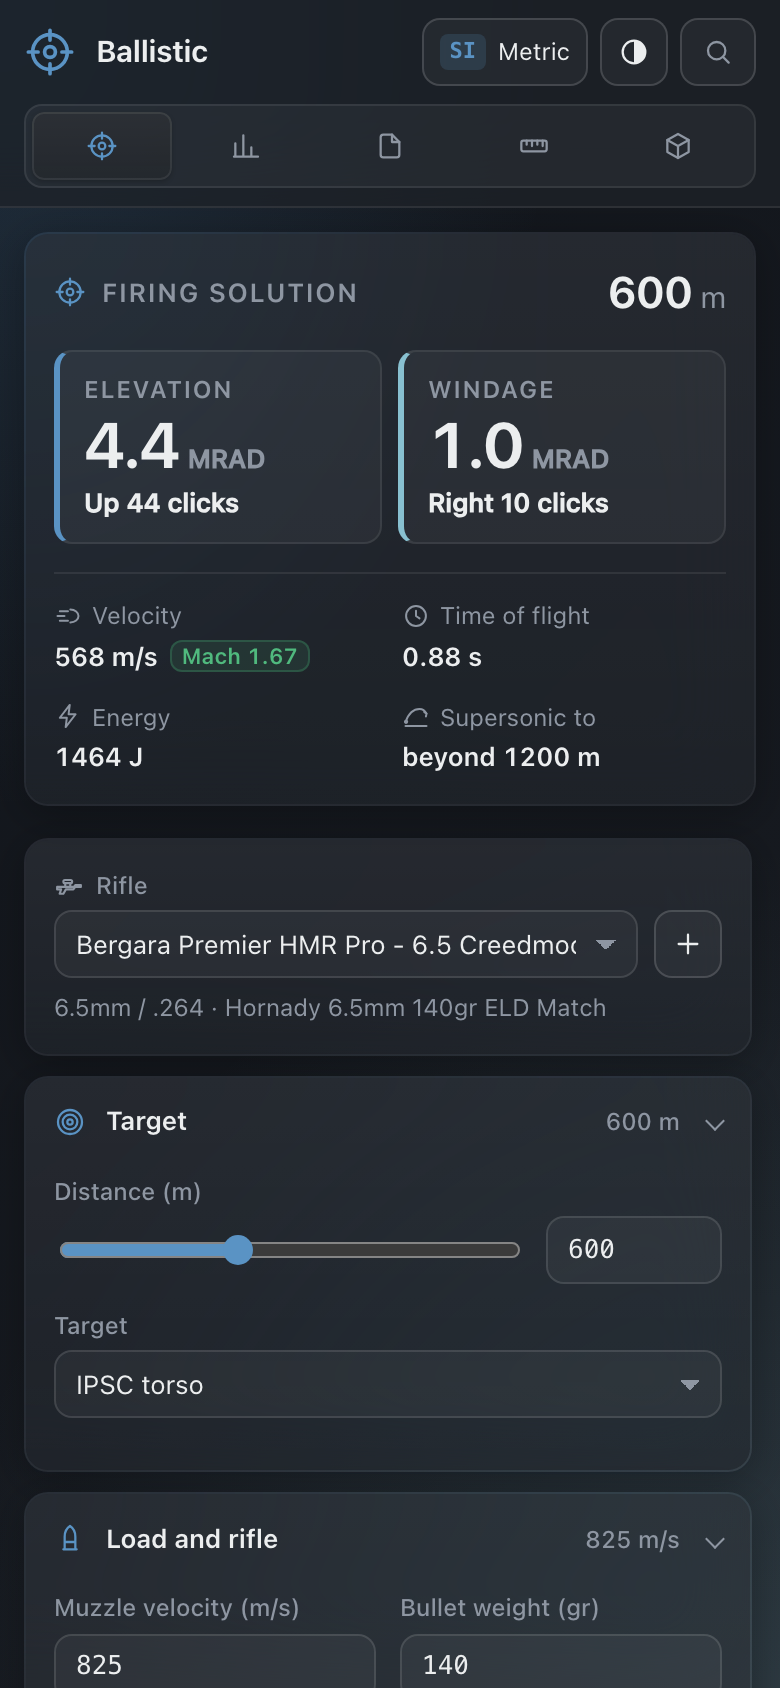
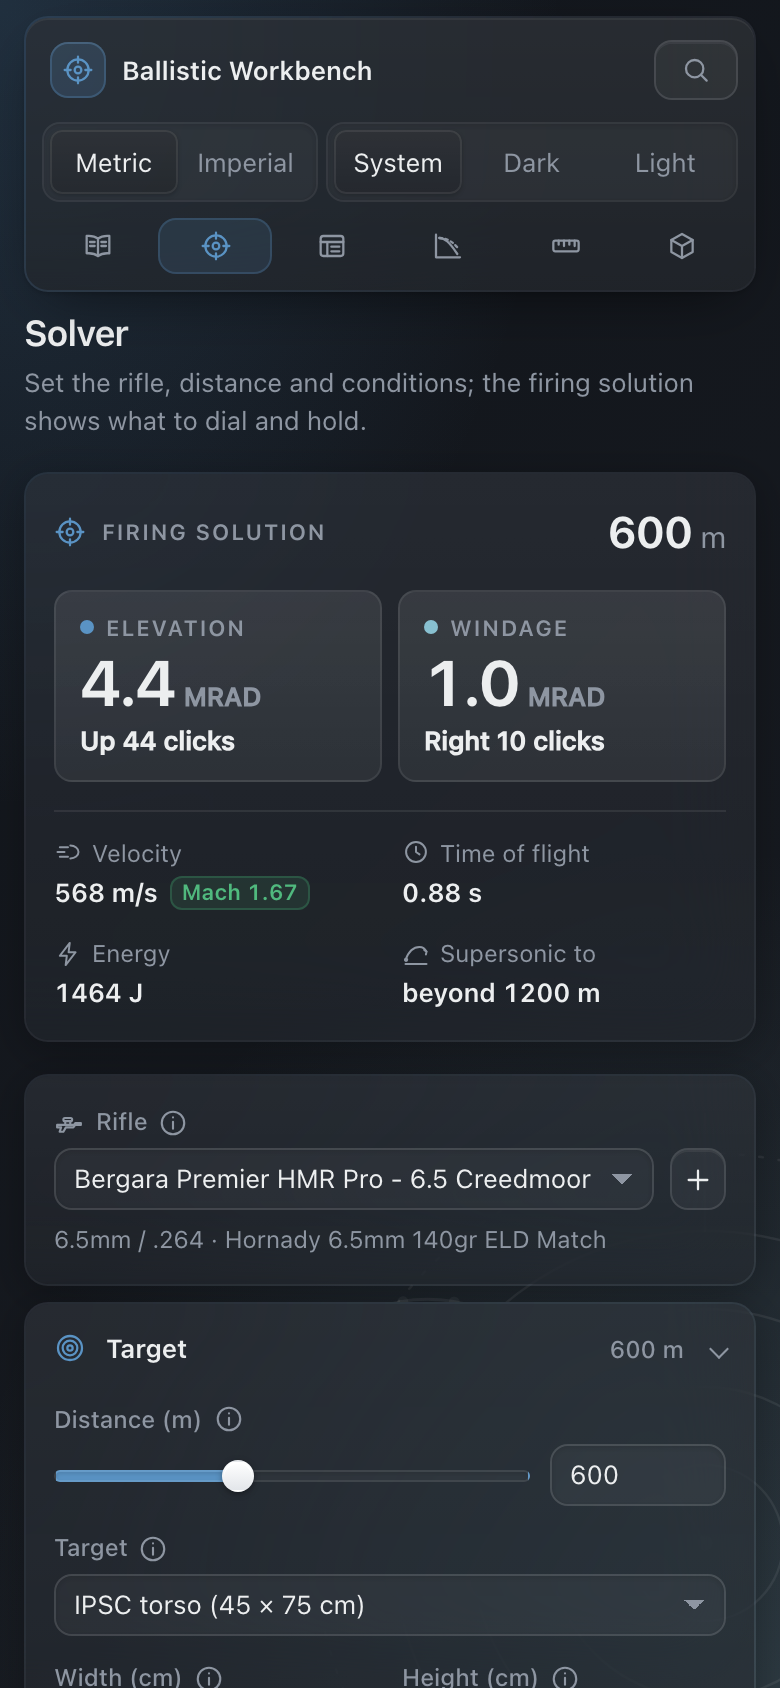
Docs: README, CHANGELOG and CLAUDE.md for the Låda shell, Guide, help and QA fixes
New screenshots (Guide, help box) and settings table; .claude-standards
records pwa=yes (the app was already an installable PWA).

diff --git a/README.md b/README.md
@@ -24,10 +24,18 @@ The first version, with a complete redesign and a corrected ballistics engine:
   solver within 0.01 MRAD and against Hornady's published 6.5 Creedmoor table. Corrected aerodynamic
   jump, spin drift, cant, Coriolis, stability and powder temperature; the zero no longer shifts with
   field conditions; 27 bullet BCs corrected to published values.
-- **New interface** in the Låda Glass design, dark and light (follows your system), custom icons,
-  plain-language text, and a phone layout.
+- **New interface** in the Låda Glass design: sidebar navigation, Låda components and charts, dark
+  and light themes (follows your system), custom icons and line art, plain-language text, and layouts
+  for phones, tablets and computers.
+- **Guide:** a step-by-step, illustrated walkthrough from planning a range day to a printed DOPE
+  chart (measuring sight height, twist and click value, zeroing, chronograph, shooting known
+  distances, truing), plus how every part of the app works. Progress is saved.
+- **Help everywhere:** an **i** next to every setting explains what it is, how to measure or choose
+  it and typical values, with a link to the guide.
 - **Solver** shows one clear firing solution (elevation and windage with direction and clicks),
-  with the reticle, trajectory chart and range table in tabs. Inputs are validated as you type.
+  solved exactly at your distance, with the reticle, trajectory chart and range table in tabs. The
+  turret follows the solution by default. Angles follow your scope (MRAD or MOA) whatever the
+  distance units. Inputs are validated as you type.
 - **DOPE cards** print at exact physical size; **Tools** each give a plain verdict; **Library**
   can edit, duplicate and delete rifles with undo.
 - **Security:** strict Content-Security-Policy, imported and saved data is validated, no inline
@@ -48,7 +56,11 @@ See [CHANGELOG.md](CHANGELOG.md) for the full list.
   </tr>
   <tr>
     <td><img src="docs/screenshots/libraryManager.png" alt="Library" width="420"><br>Library: your rifles, 177 bullets and your own bullets</td>
-    <td><img src="docs/screenshots/solverLab.png" alt="Compare models" width="420"><br>Compare models: how G1, G7, MPM and 4DOF differ for your rifle</td>
+    <td><img src="docs/screenshots/solverLab.png" alt="Compare models" width="420"><br>Compare models: how G1, G7 and modified point mass differ, explained in plain words</td>
+  </tr>
+  <tr>
+    <td><img src="docs/screenshots/guide.png" alt="Guide" width="420"><br>Guide: from range day to DOPE chart, step by step</td>
+    <td><img src="docs/screenshots/help.png" alt="Help box" width="420"><br>An i next to every setting explains it and links to the guide</td>
   </tr>
   <tr>
     <td><img src="docs/screenshots/mobile.png" alt="Phone layout" width="200"><br>Phone layout (390 px)</td>
@@ -60,13 +72,14 @@ See [CHANGELOG.md](CHANGELOG.md) for the full list.
 
 | View | What it does |
 | --- | --- |
+| **Guide** | Step by step from planning a range day to a printed DOPE chart: plan, equipment, measure rifle and scope (sight height, twist, click value, cant), bullet data, zero, chronograph, enter in the app, shoot known distances, true the model, build the chart, verify and maintain. Each step has an illustration, what you need, numbered instructions, tips and buttons into the app. Part 2 explains every view and tool; a glossary explains the terms. |
 | **Solver** | The firing solution for the active rifle at the exact target distance: elevation and windage (MRAD or MOA, direction and clicks), velocity with Mach, time of flight, energy and how far the bullet stays supersonic. Tabs: a reticle view showing where to hold, with an elevation turret you can dial (mouse, touch or keyboard); a trajectory chart (drop, velocity, wind drift, time of flight, energy); a range table with CSV export, where you tick the distances for your DOPE card. |
-| **Compare models** | How the point-mass G1 and G7, modified point mass (MPM: adds spin drift, aerodynamic jump and Coriolis) and 4DOF solutions differ for your rifle, as difference charts and a table. "Use in Solver" switches the model. |
+| **Compare models** | How the point-mass G1 and G7 solutions and modified point mass (MPM: adds spin drift, aerodynamic jump and Coriolis) differ for your rifle, as difference charts and a table, with a plain explanation of why. "Use in Solver" switches the model. |
 | **DOPE cards** | Printable range cards at exact physical size: scope cap insert, 3 × 5 in wrist card, stock tape, turret tape, match stage card (with a stage builder and wind holds for lull, base and gust) and a full-page data sheet. Copy as text, save as image, or print. |
 | **Tools** | **True your data** (muzzle velocity from a 500–800 m impact, then drag from a 1,000 m+ impact, applied to the rifle), **Hit probability** (simulates 500–2,000 shots from your error sources and shows what causes misses), **Group analysis** (from a photo or clicks: extreme spread, mean radius, dispersion ellipse and the correction to centre the group), **Chronograph** (SD, ES, mean; use the mean as muzzle velocity), **Range estimation** (from target size and reticle reading), **Recoil** (free recoil energy and velocity). |
 | **Library** | Your rifles (use, edit, duplicate, delete with undo), 177 factory bullets with search and caliber filter (published BCs marked with their source, derived ones marked "estimated"), your own bullets with a live Miller stability check, and backup to / restore from a file. |
 
-The command palette (**⌘K** on Mac, **Ctrl+K** elsewhere) reaches every view, tool and setting.
+The command palette (**⌘K** on Mac, **Ctrl+K** elsewhere, or **Search** in the sidebar) reaches every view, tool and setting. Every setting has an **i** with an explanation.
 
 ## Installation
 
@@ -94,21 +107,25 @@ Settings are stored in your browser (`localStorage`); nothing leaves your device
 
 | Setting | Where | Options | Default |
 | --- | --- | --- | --- |
-| Units | Header button, palette | Metric (m, m/s, MRAD, cm) or imperial (yd, fps, MOA, in) | Metric |
-| Theme | Header button, palette | System, light, dark | System |
+| Units | Sidebar, palette | Metric (m, m/s, cm) or imperial (yd, fps, in). Angles (MRAD or MOA) and clicks follow the active rifle's scope, so a mil scope shows MRAD with yards too | Metric |
+| Theme | Sidebar, palette | System, dark, light | System |
 | Rifle | Solver, Library, palette | Four example rifles (6.5 Creedmoor, .300 PRC, .308 Win, .223 Rem) or your own | 6.5 Creedmoor |
-| Distance and target | Solver → Target | Distance; target IPSC torso, round plate, square plate or NATO E | 600 m, IPSC torso |
-| Load and rifle | Solver → Load and rifle | Muzzle velocity, bullet weight, drag model (G1/G7), BC, solver model, sight height, zero distance, twist | From the rifle |
-| Solver model | Solver → Load and rifle, Compare models, palette | Point mass G7, point mass G1, modified point mass, 4DOF | Point mass G7 |
-| Atmosphere | Solver → Atmosphere | Presets (sea level, mountains 1,950 m, desert heat, winter) or your own temperature, station pressure, altitude and humidity; density altitude is shown | Standard atmosphere, sea level |
+| Distance and target | Solver → Target | Distance; target IPSC torso (45 × 75 cm), NATO E-type (50 × 100 cm), round plate (30 cm) or square plate (30 × 30 cm); width and height editable | 600 m, IPSC torso |
+| Load and rifle | Solver → Load and rifle | Muzzle velocity, bullet weight, drag model (G1/G7, sets the drag table), BC, solver model, sight height, zero distance, twist | From the rifle |
+| Solver model | Solver → Load and rifle, Compare models, palette | Point mass (with the bullet's drag model) or modified point mass (adds spin drift, aerodynamic jump and Coriolis) | Point mass |
+| Atmosphere | Solver → Atmosphere | Presets (sea level, mountains 1,950 m, desert heat, winter) or your own temperature, station pressure, altitude (moves the pressure with the standard atmosphere) and humidity; editing a preset creates Custom conditions; density altitude is shown | Standard atmosphere, sea level |
 | Wind | Solver → Wind | Speed and the direction it comes from (drag the wind clock or type degrees; 90° = from the right) | 4 m/s from 3 o'clock |
 | Shot angle and cant | Solver → Shot angle and cant | Inclination (+ uphill) and rifle cant (+ right) | 0° and 0° |
 | Scope | Solver → Reticle tab, rifle dialog | Reticle, first or second focal plane, magnification, click value (0.1 / 0.05 MRAD, 1/4 / 1/8 MOA) | From the rifle |
-| Range table | Solver → Range table | Row spacing 10 / 25 / 50 / 100 m; visible columns | 25 m, all columns |
+| Turret | Solver → Reticle and turret | Follow solution (the turret is set to the answer, the reticle shows the wind hold) or Manual (you dial; the reticle shows the remaining hold) | Follow solution |
+| Range table | Solver → Range table | Row spacing 10 / 25 / 50 / 100 m or yd (imperial rows land on round yards); visible columns; ranges ticked for DOPE cards (remembered) | 25, all columns, every 100 ticked |
 | DOPE card | DOPE cards | Format, distances (defaults or the ones ticked in the Solver), card size and colour | Full page |
+| Guide progress | Guide | Steps marked as done | None |
 
 ## How to
 
+- **New here?** Open the **Guide** in the sidebar: it walks you from planning a range day to a
+  printed DOPE chart, and every setting has an **i** that explains it.
 - **Get a firing solution:** choose your rifle at the top of the Solver, set the distance under
   **Target**, then check **Atmosphere** and **Wind**. The firing solution card shows what to dial.
 - **Add your rifle:** press **+** next to the rifle in the Solver, or **Library → New rifle**. Pick a

diff --git a/CLAUDE.md b/CLAUDE.md
@@ -5,7 +5,8 @@ This file provides guidance to Claude Code (claude.ai/code) when working with co
 ## What this is
 
 Ballistic Workbench: an offline-first PWA ballistics calculator for precision rifle shooters (RK4
-point-mass solver with standard G1/G7 drag, MPM and a 4DOF variant; reticle and turret simulation;
+point-mass solver with standard G1/G7 drag and modified point mass (the solver still accepts '4DOF',
+but the UI doesn't offer it: without per-bullet aerodynamic data it equals MPM); reticle and turret simulation;
 truing; hit-probability Monte Carlo; printable DOPE cards). Vanilla JavaScript ES modules, no
 framework, no build step, no runtime dependencies. Public repo (MIT).
 
@@ -21,16 +22,23 @@ npm run lint
 
 ## Layout
 
-- `index.html`: shell (header nav, units/theme/search buttons, footer, strict CSP). `src/ui/app.js`
+- `index.html`: Låda app shell (lg-app: sidebar with Search, grouped nav, Units/Theme radio switches and
+  version; strict CSP). `src/ui/app.js`
   bootstraps, hash-routes between views, owns theme (System/Light/Dark → always sets
   `<html data-theme>`), units button and the Låda command palette.
-- Views (`src/ui/`): `workspace.js` (Solver), `solverLab.js` (Compare models), `dopeStudio.js`
-  (DOPE cards), `tools.js`, `libraryManager.js`, plus `rifleBuilderModal.js` (rifle dialog).
+- Views (`src/ui/`): `guide.js` (Guide), `workspace.js` (Solver), `solverLab.js` (Compare models),
+  `dopeStudio.js` (DOPE cards), `tools.js`, `libraryManager.js`, plus `rifleBuilderModal.js` (rifle
+  dialog). In-app links: dispatch `navigate-view` with `{ view, tool?, panel?, format?, tab?, anchor? }`.
+- Help: `help.js` adds an i button next to every control whose id (or radio-group name) has an entry
+  in `helpContent.js`; boxes link to guide sections (`GuideView.showSection(id)`). New inputs need a
+  help entry.
   **View contract:** constructor(container) renders; `refresh()` rebuilds everything (theme change);
   `destroy()` removes subscriptions, observers and listeners. Views render template strings.
 - UI helpers: `icons.js` (`icon(name)` from `assets/icons.svg`), `fields.js` (`bindNumber` validated
   number inputs with inline errors, `parseNumber` accepts comma decimals), `notify.js` (`toast`).
-- Core: `state.js` (reactive `appState`, localStorage, import/export), `sanitize.js` (validates every
+- Core: `state.js` (reactive `appState`, localStorage, import/export; angle units follow the active
+  scope via `_syncAngleUnits`; `solverAlgorithm()` gives the solver algorithm: MPM or the bullet's
+  drag table), `targets.js` (target catalogue), `sanitize.js` (validates every
   stored/imported object against templates), `escape.js` (`esc`, `num`), `units.js`,
   `trajectory.js` (`interpolateAt`).
 - Physics (`src/physics/`): `solvers.js`, `atmosphere.js`, `truing.js`, `wez.js`. Pure, SI units,
@@ -53,7 +61,8 @@ npm run lint
 
 - This repo follows the app standards in `~/Desktop/code/tools/standards/STANDARDS.md` (rule IDs,
   severities). `claude-check --repo .` checks it; decisions and reasoned waivers go in `.claude-standards`.
-- Design: Låda Glass (`design=family`). Colours only from `--lg-*` tokens (no hex in app CSS; the
+- Design: Låda Glass (`design=family`): use the real `lg-` components and `LadaGlass.chart` for data
+  charts; custom canvases use `src/canvas/palette.js`. Colours only from `--lg-*` tokens (no hex in app CSS; the
   printed DOPE cards have fixed paper/ink tokens on purpose). Icons from the sprite; no emoji.
   Plain-language, sentence-case copy; explain jargon once.
 - Security: any string from user input, storage or an import goes through `esc()` before it is put

diff --git a/CHANGELOG.md b/CHANGELOG.md
@@ -32,9 +32,19 @@ The first version: the existing app brought under version control, redesigned an
 - Bullet library: 27 G7 BCs corrected to published values (with source); 133 derived ones are
   marked "estimated".
 
+### Guide and help
+
+- Guide: an illustrated step-by-step walkthrough from planning a range day to a printed DOPE chart
+  (equipment, sight height, twist, click value, cant, bullet data, zero, chronograph, shooting known
+  distances, truing, building and checking the chart), how every view and tool works, and a glossary.
+  Progress is saved per step.
+- An i next to every setting (126 of them) explains what it is, how to measure or choose it,
+  typical values and tips, with a link to the guide. Opens on hover, keyboard focus or tap.
+
 ### Interface
 
-- Låda Glass 2.2.0 design; dark and light themes following the system (System / Light / Dark);
+- Låda Glass 2.2.0 app shell (sidebar navigation with Search, Units and Theme), Låda components
+  and Låda SVG charts throughout; dark and light themes following the system (System / Light / Dark);
   custom ballistics icon set and line-art graphics; no emoji.
 - New navigation: Solver, Compare models, DOPE cards, Tools, Library; command palette with keyboard
   support (⌘K / Ctrl+K).
@@ -55,6 +65,19 @@ The first version: the existing app brought under version control, redesigned an
 - Version number in the footer.
 
 ### Fixed
+
+- Angles follow the scope: an MRAD scope shows MRAD in imperial too (imperial forced MOA next to
+  0.1 MRAD clicks); imperial range tables use round yards.
+- The firing solution is solved exactly at the target distance (at short range it depended on the
+  table step); the bullet's drag model always sets the drag table (it was ignored with point mass).
+- Turret follows the solution by default, so the target no longer slides along the drop curve in
+  the reticle while changing the distance.
+- Target types have their own size and shape (NATO E and plates behaved like an IPSC torso).
+- Editing a preset atmosphere no longer changes the preset; altitude now affects the air.
+- Compare models: 4DOF removed (it computed the same as MPM); a plain explanation of the
+  differences; no crash with extreme rifles.
+- The app could fail to start when served with python's http.server (it dropped parallel module
+  loads); a small Node server (npm start) replaces it.
 
 - Tools initialised twice (Calibrate Scale did nothing; the simulation ran twice).
 - Compare models went blank after a theme change; views went stale after changes elsewhere.
